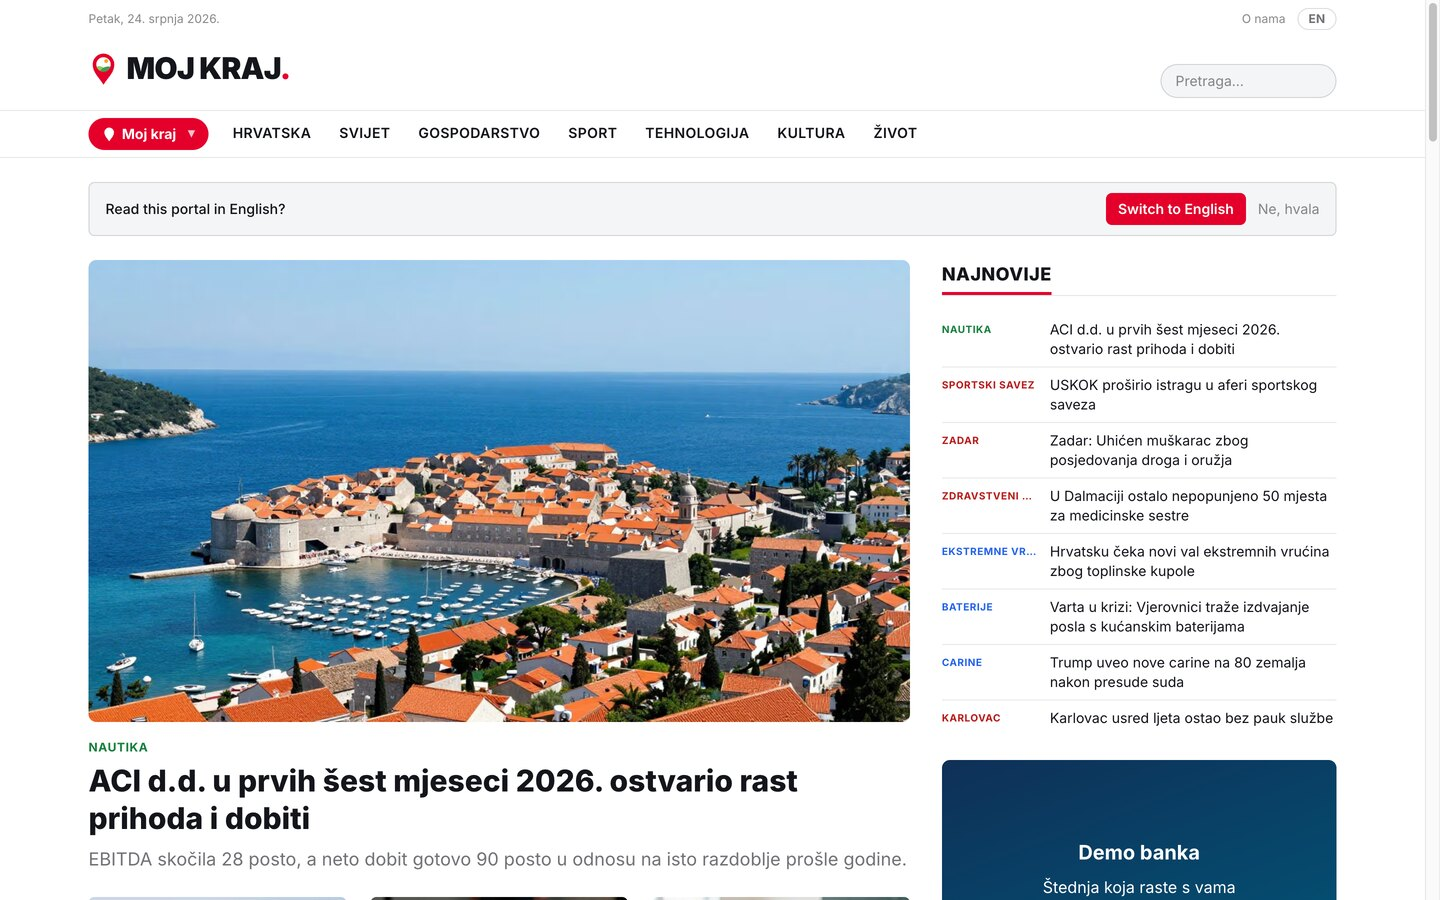
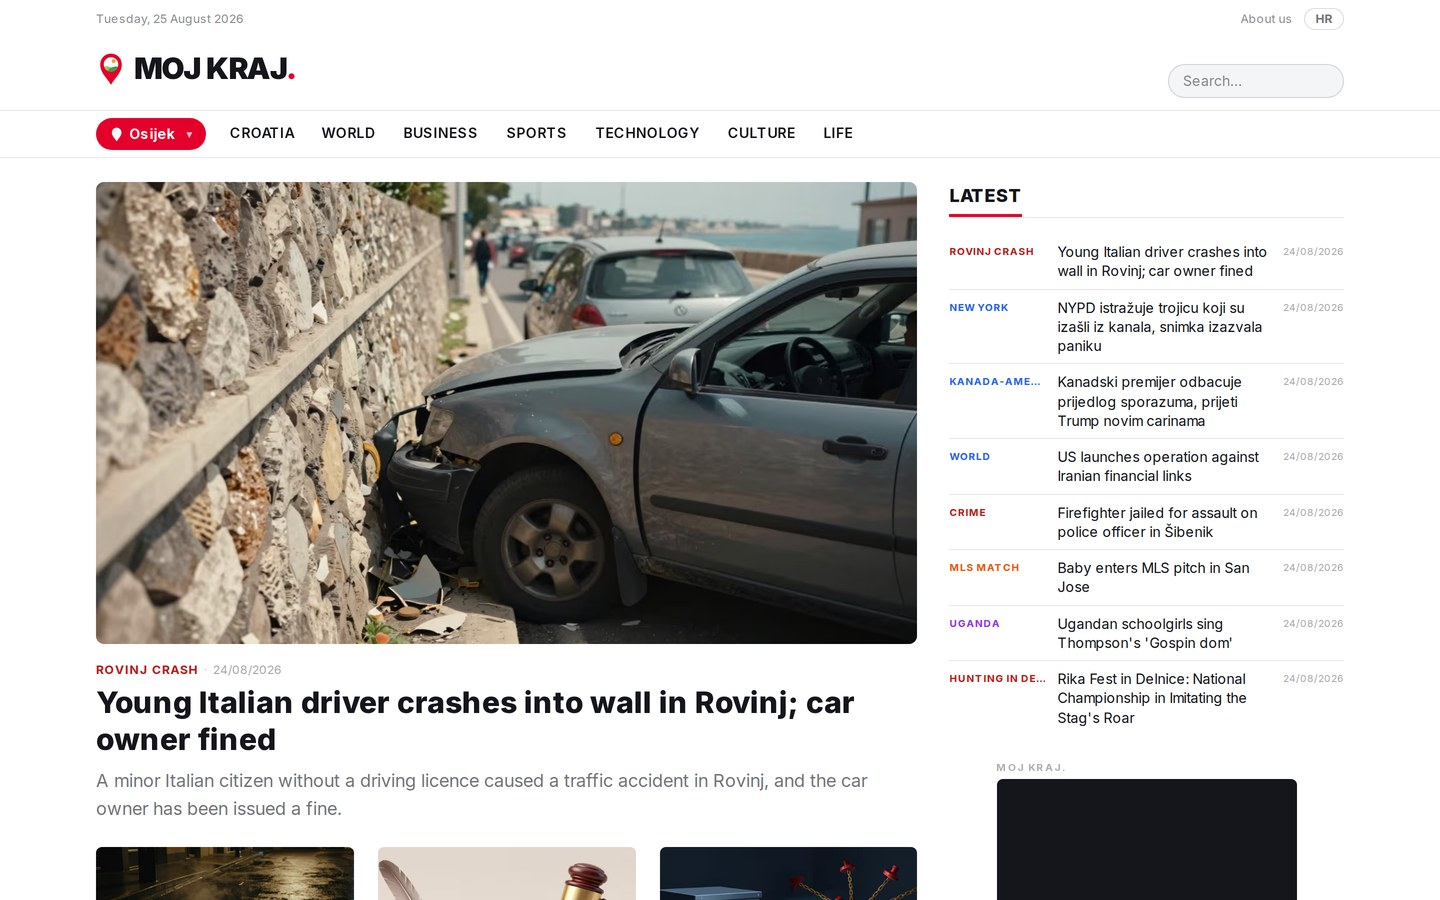
feat(i18n): English MOJ KRAJ. screenshots for the English pages
The English pages showed the Croatian portal, down to the "Read this portal in
English?" bar in the shot. Captured the English mirror with Playwright —
national front page, the Osijek local edition and an article — and moved the
Croatian originals to images/hr/, which keeps the rule that images/ is English
and images/<locale>/ overrides it.

Alt text and the showcase caption on the English page said "original Croatian
text"; they now describe the mirror, and the article alt only claims what the
crop actually shows.

One blemish, deliberately shipped: two world-news items from 24/08 in the
LATEST rail are still Croatian, because the mirror lags on the newest articles.
Re-checked on a second capture — it is the live state, not a render glitch. It
is honest, and the case study does call the English side an auto-translated
mirror, but it does read as a defect at a glance. Easy to re-shoot on a day the
rail has caught up, or say the word and the Croatian shot goes back.

Claude-Session: https://claude.ai/code/session_01Gr2TMfEVyCcyKE23U3bDp5

diff --git a/mojkraj.html b/mojkraj.html
@@ -444,13 +444,13 @@
       <div class="hero-image-showcase">
         <div class="hero-image-showcase-inner">
           <div class="showcase" data-showcase data-interval="5400">
-            <img class="showcase-slide" src="images/mojkraj-home.jpg" alt="MOJ KRAJ. homepage - a calm, content-first Croatian news portal">
+            <img class="showcase-slide" src="images/mojkraj-home.jpg" alt="MOJ KRAJ. in its English mirror - a calm, content-first national front page">
             <img class="showcase-slide" loading="lazy" decoding="async" src="images/mojkraj-local.jpg" alt="A local front page for Osijek - every town, island and county gets its own edition">
-            <img class="showcase-slide" loading="lazy" decoding="async" src="images/mojkraj-article.jpg" alt="A MOJ KRAJ. article - original Croatian text, source attribution, labeled AI illustration">
+            <img class="showcase-slide" loading="lazy" decoding="async" src="images/mojkraj-article.jpg" alt="A MOJ KRAJ. article in the English mirror - headline, standfirst, byline and lead image">
           </div>
         </div>
         <p class="figure-caption">
-          The live portal: the national front page, a town's local edition, and an article - original text, cited source, labeled illustration.
+          The live portal, English mirror: the national front page, a town's local edition, and an article.
         </p>
       </div>
     </div>

diff --git a/src/pages/mojkraj.html b/src/pages/mojkraj.html
@@ -444,13 +444,13 @@
       <div class="hero-image-showcase">
         <div class="hero-image-showcase-inner">
           <div class="showcase" data-showcase data-interval="5400">
-            <img class="showcase-slide" src="images/mojkraj-home.jpg" alt="MOJ KRAJ. homepage - a calm, content-first Croatian news portal">
+            <img class="showcase-slide" src="images/mojkraj-home.jpg" alt="MOJ KRAJ. in its English mirror - a calm, content-first national front page">
             <img class="showcase-slide" loading="lazy" decoding="async" src="images/mojkraj-local.jpg" alt="A local front page for Osijek - every town, island and county gets its own edition">
-            <img class="showcase-slide" loading="lazy" decoding="async" src="images/mojkraj-article.jpg" alt="A MOJ KRAJ. article - original Croatian text, source attribution, labeled AI illustration">
+            <img class="showcase-slide" loading="lazy" decoding="async" src="images/mojkraj-article.jpg" alt="A MOJ KRAJ. article in the English mirror - headline, standfirst, byline and lead image">
           </div>
         </div>
         <p class="figure-caption">
-          The live portal: the national front page, a town's local edition, and an article - original text, cited source, labeled illustration.
+          The live portal, English mirror: the national front page, a town's local edition, and an article.
         </p>
       </div>
     </div>

diff --git a/hr/mojkraj.html b/hr/mojkraj.html
@@ -444,9 +444,9 @@
       <div class="hero-image-showcase">
         <div class="hero-image-showcase-inner">
           <div class="showcase" data-showcase data-interval="5400">
-            <img class="showcase-slide" src="/images/mojkraj-home.jpg" alt="Naslovnica MOJ KRAJ. - smiren hrvatski news portal kojemu je sadržaj na prvom mjestu">
-            <img class="showcase-slide" loading="lazy" decoding="async" src="/images/mojkraj-local.jpg" alt="Lokalna naslovnica za Osijek - svako mjesto, otok i županija dobiva svoje izdanje">
-            <img class="showcase-slide" loading="lazy" decoding="async" src="/images/mojkraj-article.jpg" alt="Članak na MOJ KRAJ. - originalan hrvatski tekst, navod izvora, označena AI ilustracija">
+            <img class="showcase-slide" src="/images/hr/mojkraj-home.jpg" alt="Naslovnica MOJ KRAJ. - smiren hrvatski news portal kojemu je sadržaj na prvom mjestu">
+            <img class="showcase-slide" loading="lazy" decoding="async" src="/images/hr/mojkraj-local.jpg" alt="Lokalna naslovnica za Osijek - svako mjesto, otok i županija dobiva svoje izdanje">
+            <img class="showcase-slide" loading="lazy" decoding="async" src="/images/hr/mojkraj-article.jpg" alt="Članak na MOJ KRAJ. - originalan hrvatski tekst, navod izvora, označena AI ilustracija">
           </div>
         </div>
         <p class="figure-caption">

diff --git a/src/pages/hr/mojkraj.html b/src/pages/hr/mojkraj.html
@@ -444,9 +444,9 @@
       <div class="hero-image-showcase">
         <div class="hero-image-showcase-inner">
           <div class="showcase" data-showcase data-interval="5400">
-            <img class="showcase-slide" src="/images/mojkraj-home.jpg" alt="Naslovnica MOJ KRAJ. - smiren hrvatski news portal kojemu je sadržaj na prvom mjestu">
-            <img class="showcase-slide" loading="lazy" decoding="async" src="/images/mojkraj-local.jpg" alt="Lokalna naslovnica za Osijek - svako mjesto, otok i županija dobiva svoje izdanje">
-            <img class="showcase-slide" loading="lazy" decoding="async" src="/images/mojkraj-article.jpg" alt="Članak na MOJ KRAJ. - originalan hrvatski tekst, navod izvora, označena AI ilustracija">
+            <img class="showcase-slide" src="/images/hr/mojkraj-home.jpg" alt="Naslovnica MOJ KRAJ. - smiren hrvatski news portal kojemu je sadržaj na prvom mjestu">
+            <img class="showcase-slide" loading="lazy" decoding="async" src="/images/hr/mojkraj-local.jpg" alt="Lokalna naslovnica za Osijek - svako mjesto, otok i županija dobiva svoje izdanje">
+            <img class="showcase-slide" loading="lazy" decoding="async" src="/images/hr/mojkraj-article.jpg" alt="Članak na MOJ KRAJ. - originalan hrvatski tekst, navod izvora, označena AI ilustracija">
           </div>
         </div>
         <p class="figure-caption">

diff --git a/index.html b/index.html
@@ -454,7 +454,7 @@
         <!-- Project 6: MOJ KRAJ. -->
         <div class="project-card">
           <a href="mojkraj.html" class="project-image">
-            <img src="images/mojkraj-home.jpg" alt="MOJ KRAJ. AI-operated Croatian news portal">
+            <img src="images/mojkraj-home.jpg" alt="MOJ KRAJ., the AI-operated Croatian news portal, in its English mirror">
             <div class="project-image-overlay"></div>
           </a>
           <div class="project-content">

diff --git a/src/pages/index.html b/src/pages/index.html
@@ -454,7 +454,7 @@
         <!-- Project 6: MOJ KRAJ. -->
         <div class="project-card">
           <a href="/mojkraj" class="project-image">
-            <img src="images/mojkraj-home.jpg" alt="MOJ KRAJ. AI-operated Croatian news portal">
+            <img src="images/mojkraj-home.jpg" alt="MOJ KRAJ., the AI-operated Croatian news portal, in its English mirror">
             <div class="project-image-overlay"></div>
           </a>
           <div class="project-content">

diff --git a/hr/index.html b/hr/index.html
@@ -455,7 +455,7 @@
         <!-- Project 6: MOJ KRAJ. -->
         <div class="project-card">
           <a href="/hr/mojkraj" class="project-image">
-            <img src="/images/mojkraj-home.jpg" alt="MOJ KRAJ., hrvatski news portal koji vodi AI">
+            <img src="/images/hr/mojkraj-home.jpg" alt="MOJ KRAJ., hrvatski news portal koji vodi AI">
             <div class="project-image-overlay"></div>
           </a>
           <div class="project-content">

diff --git a/src/pages/hr/index.html b/src/pages/hr/index.html
@@ -455,7 +455,7 @@
         <!-- Project 6: MOJ KRAJ. -->
         <div class="project-card">
           <a href="/hr/mojkraj" class="project-image">
-            <img src="/images/mojkraj-home.jpg" alt="MOJ KRAJ., hrvatski news portal koji vodi AI">
+            <img src="/images/hr/mojkraj-home.jpg" alt="MOJ KRAJ., hrvatski news portal koji vodi AI">
             <div class="project-image-overlay"></div>
           </a>
           <div class="project-content">
